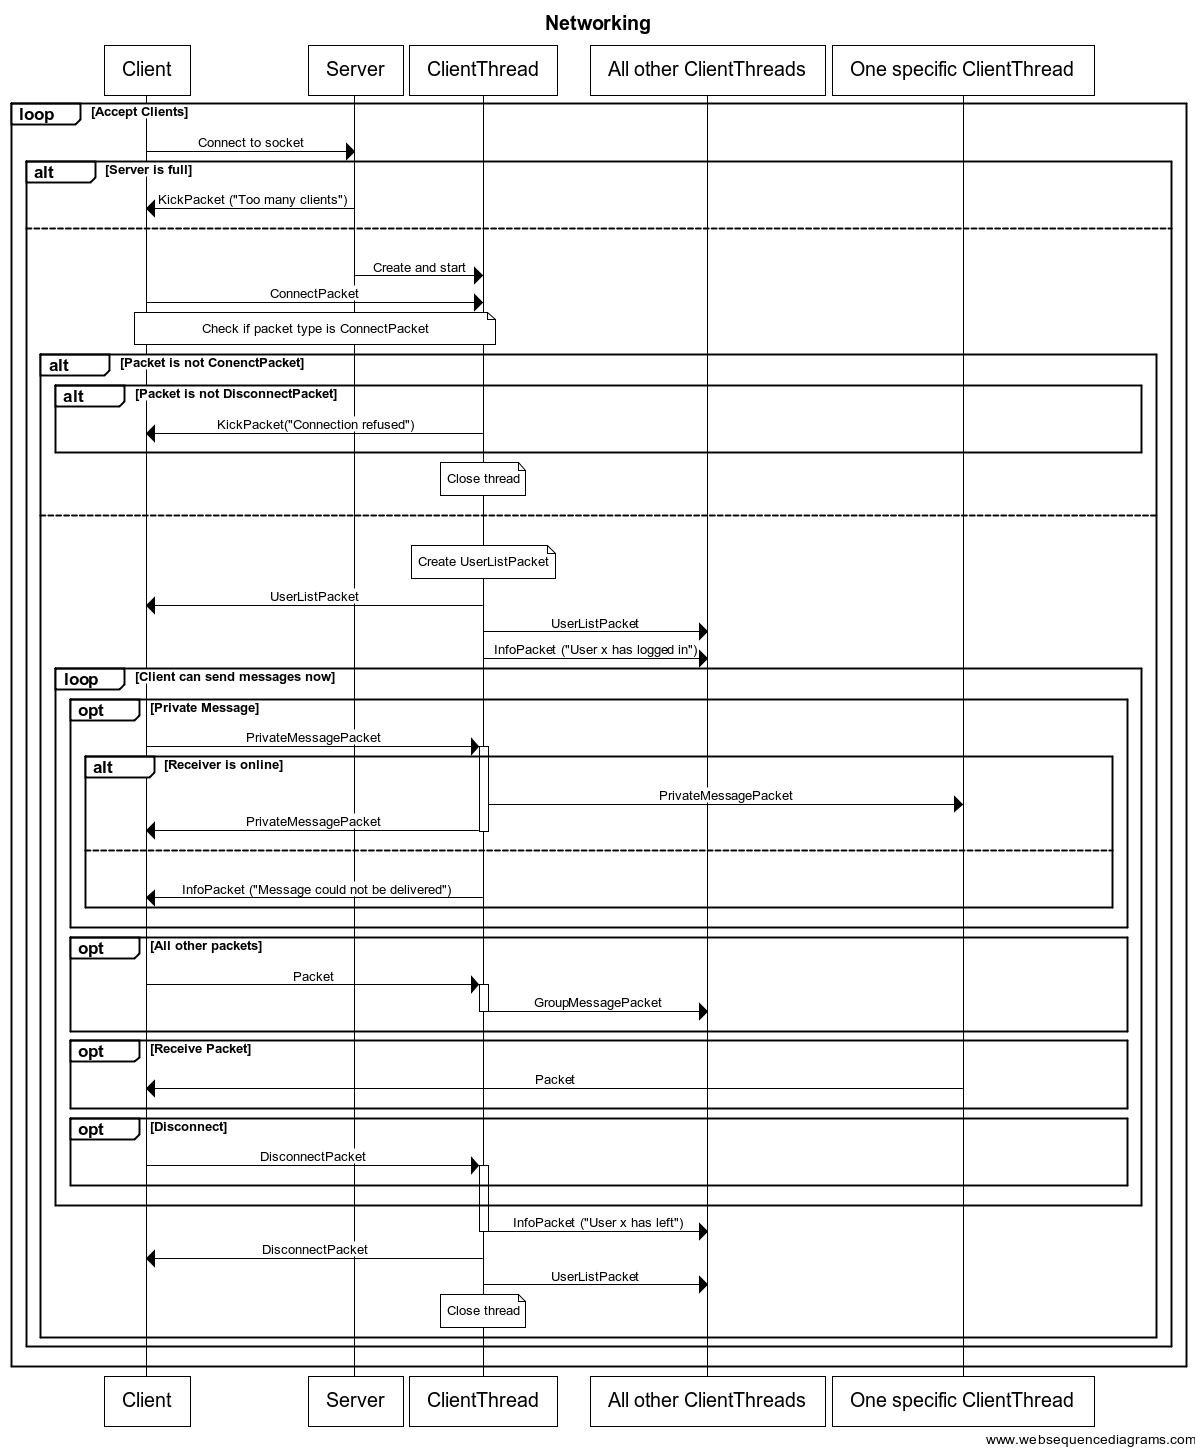
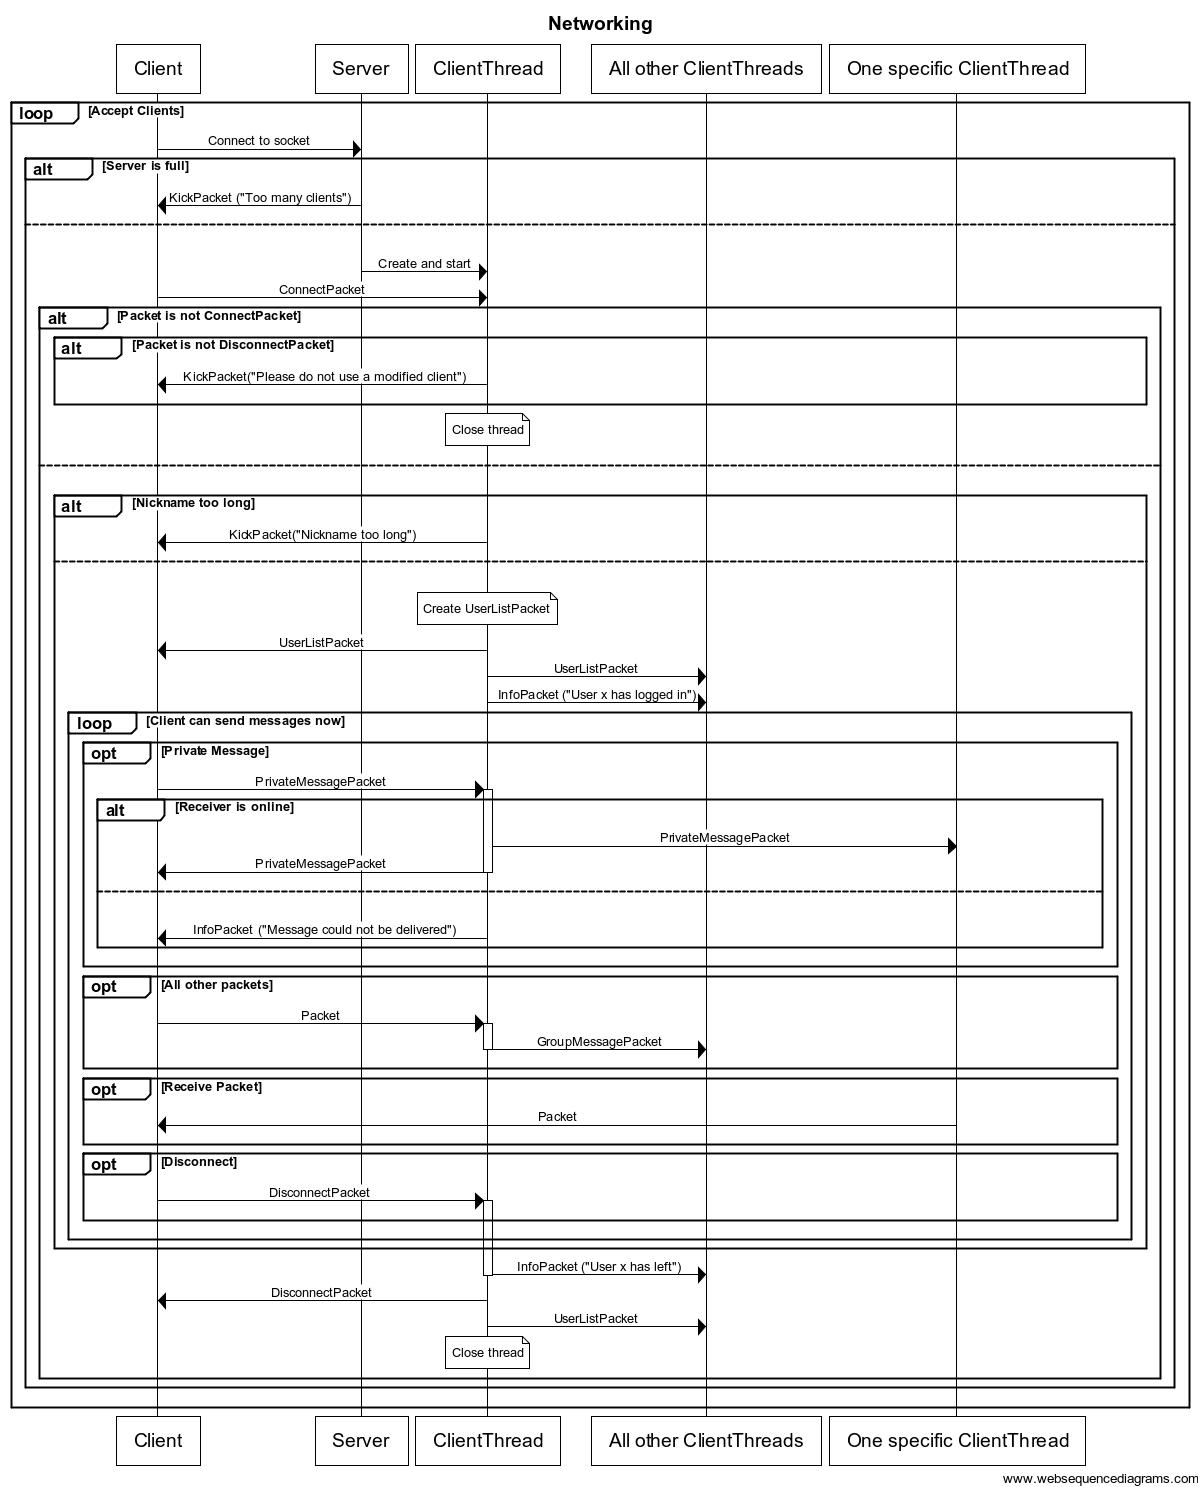
[TASK] Updated ToDos, updated networking sequence diagram, fixed name bug

Changed region(s): [[0.0, 0.0, 1.0, 1.0]]

diff --git a/TcpChat/src/server/console/ClientThread.java b/TcpChat/src/server/console/ClientThread.java
@@ -289,11 +289,16 @@ public final class ClientThread extends Thread {
         PacketType pType = clientAnswer.getIdentifier();
 
         if (pType == PacketType.CONNECT) {
-            this.clientName = ((ConnectPacket) clientAnswer).getName();
+            String name = ((ConnectPacket) clientAnswer).getName();
+            if(name.length() > 20){
+                this.send(new KickPacket("Please make sure that your nickname has less than 20 letters"));
+                return null;
+            }
+            this.clientName = name;
             return (ConnectPacket) clientAnswer;
         } else {
             if (pType != PacketType.DISCONNECT) {
-                this.send(new KickPacket("Connection refused"));
+                this.send(new KickPacket("Security breach: Please do not use a modified client"));
             }
             return null;
         }

diff --git a/TcpChat/src/server/console/ChatServer.java b/TcpChat/src/server/console/ChatServer.java
@@ -131,7 +131,6 @@ public final class ChatServer {
                 logging.Counters.exception();
             }
         }
-
     }
 
     /**
